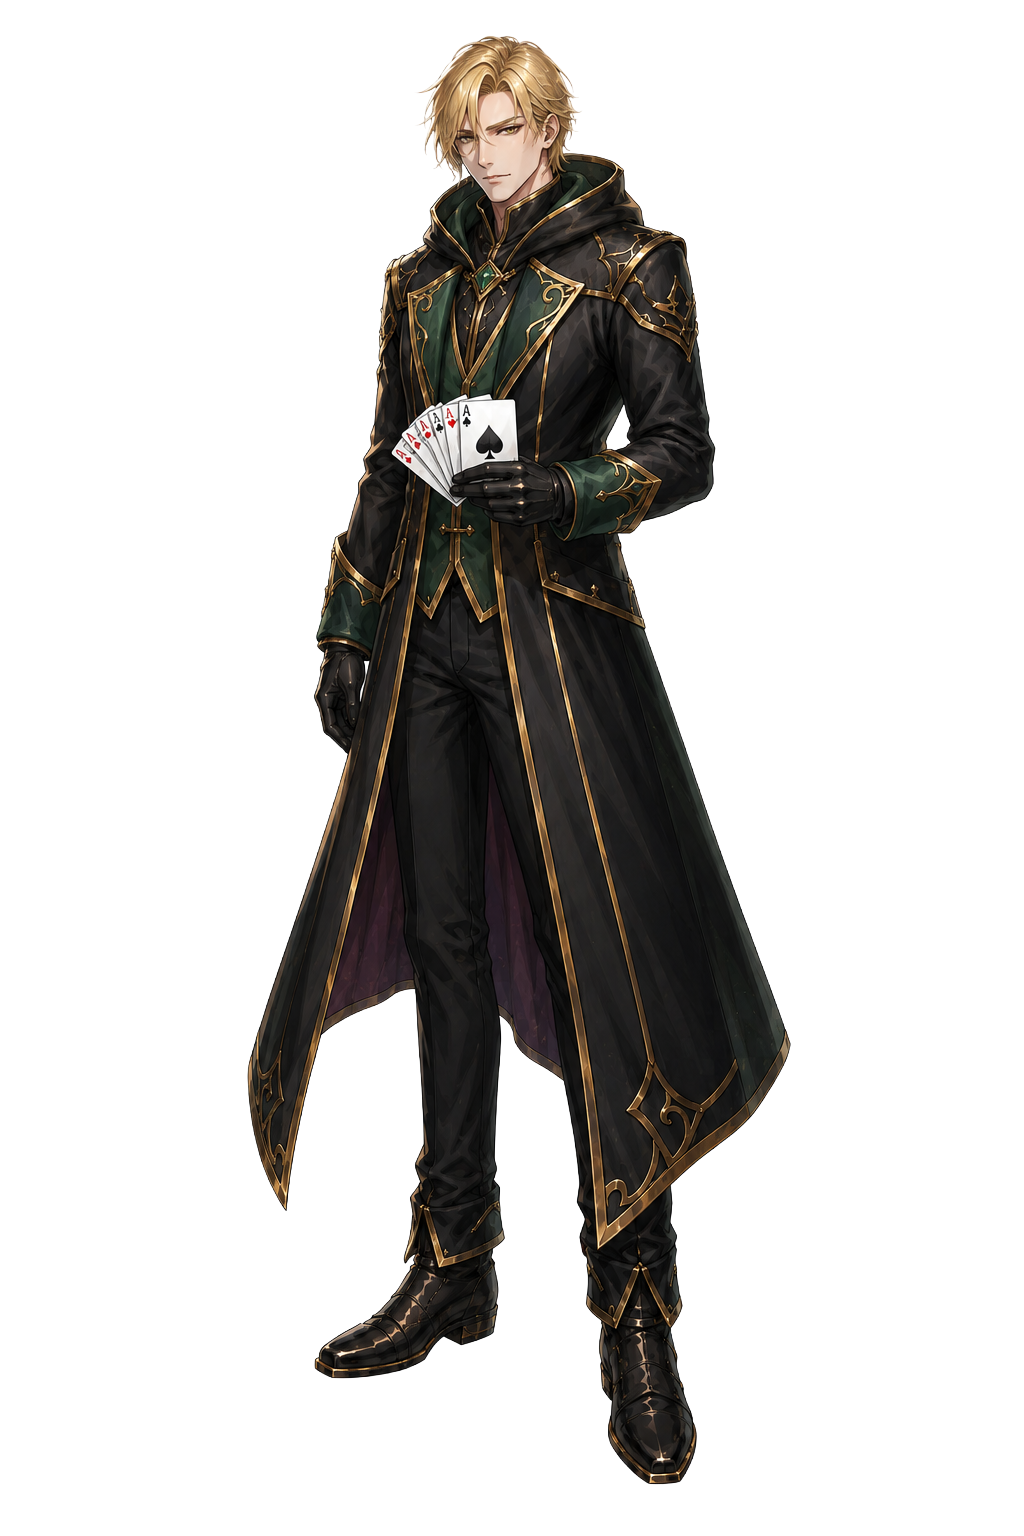
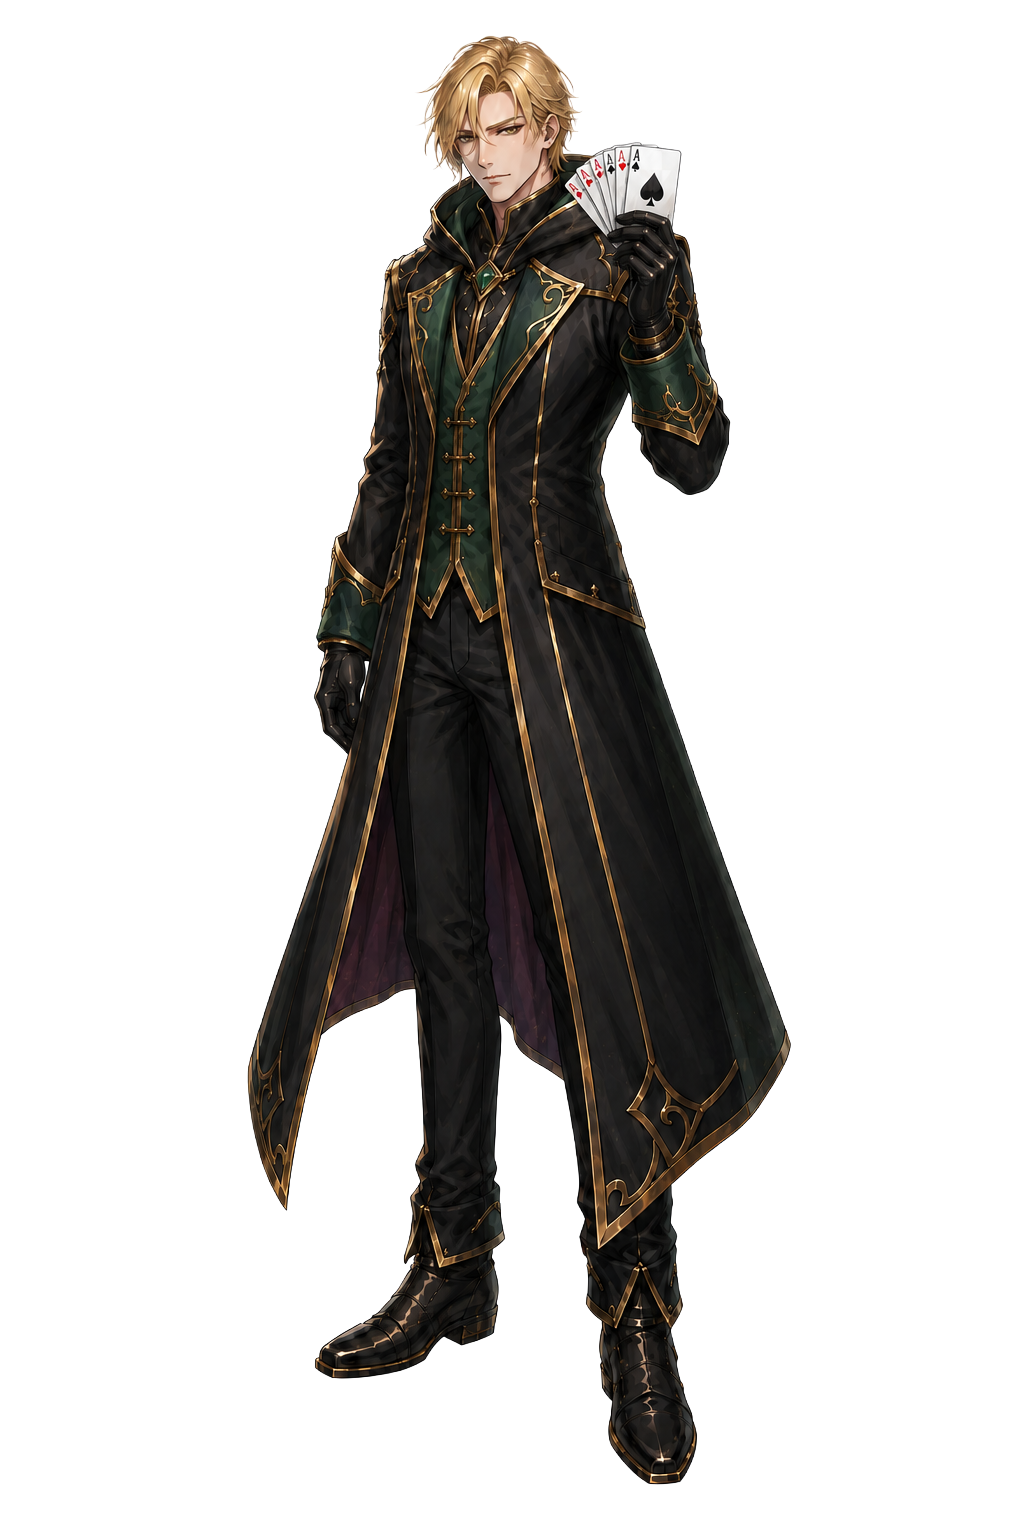
:fix:テロップ表示問題修正

diff --git a/src/styles.css b/src/styles.css
@@ -5755,18 +5755,22 @@ h2 {
   object-fit: contain;
   object-position: center top;
   filter: drop-shadow(18px 18px 22px rgba(0, 0, 0, 0.66));
-  transform: translate(-4%, -10%);
+  transform: translate(-4%, 0%);
   animation: reach-visual-in var(--reach-splash-duration, 2.6s) ease both;
 }
 
 .reach-splash-copy {
-  position: relative;
+  position: absolute;
+  top: 50%;
+  right: clamp(2rem, 7vw, 5.5rem);
+  left: clamp(330px, 42vw, 520px);
   z-index: 2;
   display: grid;
-  align-self: center;
   gap: 0.5rem;
   padding: clamp(1rem, 4vw, 3rem);
   text-align: left;
+  transform: translateY(-50%);
+  pointer-events: none;
 }
 
 .reach-splash-copy span {
@@ -5779,15 +5783,16 @@ h2 {
   font-weight: 900;
 }
 
-.reach-splash-copy strong {
+.reach-splash-copy strong,
+.reach-splash-message {
   display: flex;
-  flex-direction: column;
-  align-items: flex-start;
-  gap: 0.08em;
-  width: min(68vw, 860px);
+  flex-direction: row;
+  align-items: baseline;
+  gap: 0;
+  width: 100%;
   max-width: 100%;
   color: #fff8dc;
-  font-size: clamp(2rem, 4.6vw, 4.6rem);
+  font-size: clamp(1.6rem, 3.6vw, 3.8rem);
   line-height: 1.02;
   word-break: keep-all;
   overflow-wrap: normal;
@@ -5803,8 +5808,9 @@ h2 {
 }
 
 .reach-splash-copy .reach-splash-player,
+.reach-splash-copy .reach-splash-separator,
 .reach-splash-copy .reach-splash-call {
-  display: block;
+  display: inline;
   width: auto;
   max-width: 100%;
   border: 0;
@@ -5812,15 +5818,20 @@ h2 {
   color: inherit;
   padding: 0;
   font-size: inherit;
-  overflow: hidden;
-  text-overflow: ellipsis;
+  overflow: visible;
+  text-overflow: clip;
   line-height: inherit;
   white-space: nowrap;
 }
 
+.reach-splash-copy .reach-splash-player {
+  flex: 0 1 auto;
+  min-width: 0;
+}
+
+.reach-splash-copy .reach-splash-separator,
 .reach-splash-copy .reach-splash-call {
-  overflow: visible;
-  text-overflow: clip;
+  flex: 0 0 auto;
 }
 
 .ron-check-overlay {
@@ -6524,16 +6535,16 @@ h2 {
 @keyframes reach-visual-in {
   0% {
     opacity: 0;
-    transform: translate(calc(-4% - 80px), -10%) scale(0.94);
+    transform: translate(calc(-4% - 80px), 0%) scale(0.94);
   }
   20%,
   78% {
     opacity: 1;
-    transform: translate(-4%, -10%) scale(1);
+    transform: translate(-4%, 0%) scale(1);
   }
   100% {
     opacity: 0;
-    transform: translate(calc(-4% + 60px), -10%) scale(1);
+    transform: translate(calc(-4% + 60px), 0%) scale(1);
   }
 }
 
@@ -8642,7 +8653,7 @@ h2 {
   .reach-splash-band {
     grid-template-columns: 1fr;
     align-content: end;
-    min-height: 56vh;
+    height: 56vh;
   }
 
   .reach-splash-visual {
@@ -8654,8 +8665,13 @@ h2 {
   }
 
   .reach-splash-copy {
+    top: auto;
+    right: 1rem;
+    bottom: 1.4rem;
+    left: 1rem;
     padding: 0.85rem 1rem 1.4rem;
     text-align: center;
+    transform: none;
   }
 
   .reach-splash-copy span {
@@ -8664,7 +8680,8 @@ h2 {
 
   .reach-splash-copy strong {
     width: 100%;
-    font-size: clamp(1.85rem, 10vw, 3rem);
+    justify-content: center;
+    font-size: clamp(1.45rem, 7.2vw, 2.6rem);
   }
 
   .ron-check-panel {

diff --git a/src/components/PlayScreen.test.tsx b/src/components/PlayScreen.test.tsx
@@ -76,6 +76,16 @@ function createOnlineMatchState(matchMode: MatchState["matchMode"] = "rounds") {
   );
 }
 
+function expectReachSplashMessage(container: HTMLElement, playerName: string) {
+  const message = container.querySelector(".reach-splash-message");
+  const call = container.querySelector(".reach-splash-call")?.textContent ?? "";
+  expect(message).toBeInTheDocument();
+  expect(container.querySelector(".reach-splash-player")).toHaveTextContent(playerName);
+  expect(container.querySelector(".reach-splash-separator")).toHaveTextContent(":");
+  expect(call).toBeTruthy();
+  expect(message?.textContent?.replace(/\s/g, "")).toBe(`${playerName}:${call}`.replace(/\s/g, ""));
+}
+
 describe("PlayScreen round display", () => {
   it("shows the current round on the play screen", () => {
     render(
@@ -1905,6 +1915,46 @@ describe("PlayScreen round display", () => {
     expect(container.querySelector(".reach-splash")).toHaveTextContent(
       "リーチ!!",
     );
+  });
+
+  it("renders the reach splash as a single player-name colon call message", () => {
+    const base = createInitialGame(4, "clockwise");
+    const players = base.players.map((player, index) => ({
+      ...player,
+      id: `p${index + 1}`,
+      name: `Player ${index + 1}`,
+      isReach: false,
+    }));
+    const state: GameState = {
+      ...base,
+      viewerPlayerId: "p2",
+      players,
+    };
+
+    const { container, rerender } = render(
+      <PlayScreen
+        state={state}
+        dispatch={vi.fn()}
+        currentRound={1}
+        disableLocalCpuAutomation
+      />,
+    );
+
+    rerender(
+      <PlayScreen
+        state={{
+          ...state,
+          players: players.map((player, index) =>
+            index === 0 ? { ...player, isReach: true } : player,
+          ),
+        }}
+        dispatch={vi.fn()}
+        currentRound={1}
+        disableLocalCpuAutomation
+      />,
+    );
+
+    expectReachSplashMessage(container, "Player 1");
   });
 
   it("shows table discard and meld placement only for three-player games", () => {

diff --git a/src/components/PlayScreen.tsx b/src/components/PlayScreen.tsx
@@ -1804,10 +1804,11 @@ export default function PlayScreen({
               />
               <div className="reach-splash-copy">
                 <span>宣言</span>
-                <strong>
+                <strong className="reach-splash-message">
                   <span className="reach-splash-player">
                     {reachSplashPlayerName}
                   </span>
+                  <span className="reach-splash-separator">:</span>
                   <span className="reach-splash-call">{reachSplashCall}</span>
                 </strong>
               </div>
